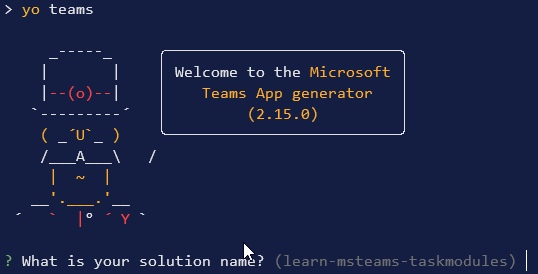
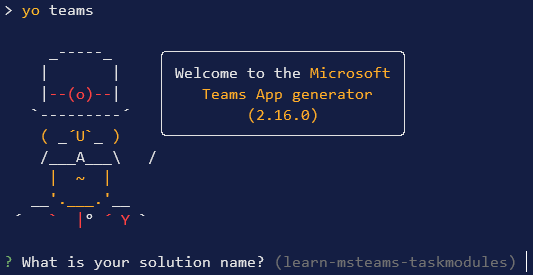
MSTeams - Webhooks Module - FY21Q2 refresh
- update lab steps to match current dependencies
- implement changes per Acrolinx feedback
- update image names per reviewer feedback

diff --git a/learn-m365-pr/m365-developer/msteams-webhooks-connectors/includes/7-exercise-o365-connectors.md b/learn-m365-pr/m365-developer/msteams-webhooks-connectors/includes/7-exercise-o365-connectors.md
@@ -20,7 +20,7 @@ On the **Register Connector** page, complete the required fields in the form wit
 
 Select the **I accept the terms and conditions...** checkbox and select **Save** to register the Connector.
 
-After successfully registering your Connector, the **Connectors Developer Dashboard** page will display some additional sections. While there is a button to **Download Manifest** for a custom Microsoft Teams app, we'll use the manifest created by the Yeoman Generator for Microsoft Teams.
+After successfully registering your Connector, the **Connectors Developer Dashboard** page will display some additional sections. While there's a button to **Download Manifest** for a custom Microsoft Teams app, we'll use the manifest created by the Yeoman Generator for Microsoft Teams.
 
 You'll need the ID of your new Connector later in the exercise. This ID, a GUID, can be found in the URL of the updated page. Copy this ID for later use.
 
@@ -42,11 +42,12 @@ Yeoman will launch and ask you a series of questions. Answer the questions with 
 - **Where do you want to place the files?**: Use the current folder
 - **Title of your Microsoft Teams App project?**: My First Teams Connector
 - **Your (company) name? (max 32 characters)**: Contoso
-- **Which manifest version would you like to use?**: v1.6
+- **Which manifest version would you like to use?**: v1.8
 - **Enter your Microsoft Partner Id, if you have one?**: (Leave blank to skip)
 - **What features do you want to add to your project?**: A Connector
 - **The URL where you will host this solution?**: (Accept the default option)
 - **Would you like show a loading indicator when your app/tab loads?**: No
+- **Would you like personal apps to be rendered without a tab header-bar?** No
 - **Would you like to include Test framework and initial tests?**: No
 - **Would you like to use Azure Applications Insights for telemetry?**: No
 - **What type of Connector would you like to include?**: A new Connector hosted in this solution
@@ -58,32 +59,9 @@ Yeoman will launch and ask you a series of questions. Answer the questions with 
 
 After answering the generator's questions, the generator will create the scaffolding for the project and then execute `npm install` that downloads all the dependencies required by the project.
 
-### Ensure the project is using the latest version of Teams manifest & SDK
-
-Run the npm command to install the latest version of the SDK
-
-```console
-npm i @microsoft/teams-js
-```
-
-Locate and open the `manifest.json` file in the `manifest`  folder of the project.
-
-- Change the `$schema` property to **https://developer.microsoft.com/en-us/json-schemas/teams/v1.7/MicrosoftTeams.schema.json**
-- Change the `manifestVersion` property to **1.7**.
-- Change the `version` property to **1.0.0**.
-
-Open the `gulp.config.js` file in the root folder of the project. Add the following to the **SCHEMAS** property.
-
-```json
-{
-  version: "1.7",
-  schema: "https://developer.microsoft.com/en-us/json-schemas/teams/v1.7/MicrosoftTeams.schema.json"
-}
-```
-
 ### Examine and update the app manifest file
 
-After creating the project you'll need to make a few edits to the default app manifest file. Locate and open the file **./src/manifest/manifest.json**.
+After creating the project, you'll need to make a few edits to the default app manifest file. Locate and open the file **./src/manifest/manifest.json**.
 
 Within this file, locate the `connectors` array. Notice a single connector is listed:
 
@@ -102,7 +80,7 @@ Within this file, locate the `connectors` array. Notice a single connector is li
 > [!IMPORTANT]
 > Notice the scope of the Connector ID will be replaced by the build process. This ID can be found in the `./.env` file that's used for development.
 
-A default manifest has a few empty array properties that must be removed in order to add the Connector to a team. Locate the following properties and delete them from the **manifest.json** file:
+A default manifest has a few empty array properties that must be removed to add the Connector to a team. Locate the following properties and delete them from the **manifest.json** file:
 
 ```json
 "configurableTabs": []
@@ -181,7 +159,7 @@ The web service exposes two endpoints, both represented by methods with the endp
     > [!NOTE]
     > The sample web service in the default project uses a JSON file to store the registration. It does not contain any logic to update an existing Connector when it's changed, or remove a Connector. In a real world Connector, you'll likely implement a system that saves this registration to a persistent data store that handles the scenarios of updating and removing a Connector from a team.
 
-- **/ping**: This endpoint can be called by anyone and is simply used to test the Connector. When called, it will create a card and send it to all the registered Connectors.
+- **/ping**: This endpoint can be called by anyone and is used to test the Connector. When called, it will create a card and send it to all the registered Connectors.
 
 ## Test the Office 365 Connector in Microsoft Teams
 
@@ -195,7 +173,7 @@ gulp ngrok-serve
 
 Now let's load the Connector in Microsoft Teams. In the browser, navigate to **https://teams.microsoft.com** and sign in with the credentials of a Work and School account.
 
-Once you are signed in, the first step is to install the Microsoft Teams app.
+Once you're signed in, the first step is to install the Microsoft Teams app.
 
 Select a team, select the action menu on the team and select **Manage team**:
 
@@ -219,7 +197,7 @@ Once installed, you can now add the Connector to a team. You can do this from th
 
 ![Screenshot of the Add to a team dialog](../media/07-test-setup-app-05.png)
 
-On the **Connectors for... channel in ... team** page, select the **Others** category and scroll to the bottom. You will see your connector under the **Sideloaded** section:
+On the **Connectors for... channel in ... team** page, select the **Others** category and scroll to the bottom. You'll see your connector under the **Sideloaded** section:
 
 ![Screenshot listing all Connectors available to a team](../media/07-test-setup-app-06.png)
 
@@ -351,7 +329,7 @@ Using the free tool [Postman](https://www.postman.com/), create a new request to
     > [!IMPORTANT]
     > Connectors, like incoming webhooks, only support Office 365 Connector Cards for messages sent to Microsoft Teams. Adaptive cards aren't supported when sending messages with cards when using Connectors or incoming webhooks.
 
-Select the **Send** button in Postman. When you go back to the channel, you will see the card displayed as a message in the team:
+Select the **Send** button in Postman. When you go back to the channel, you'll see the card displayed as a message in the team:
 
 ![Screenshot of the rendered card in the team](../media/07-test-setup-app-11.png)
 

diff --git a/learn-m365-pr/m365-developer/msteams-webhooks-connectors/includes/3-exercise-outgoing-webhooks.md b/learn-m365-pr/m365-developer/msteams-webhooks-connectors/includes/3-exercise-outgoing-webhooks.md
@@ -8,7 +8,7 @@ For the Office 365 tenant, follow the instructions on [Microsoft Teams: Prepare 
 
 Microsoft Teams must be configured to enable custom apps and allow custom apps to be uploaded to your tenant to build custom apps for Microsoft Teams. Follow the instructions on the same **Prepare your Office 365 tenant** page mentioned above.
 
-You'll use Node.js to create custom Microsoft Teams tabs in this module. The exercises in this module assume you have the following tools installed on your developer workstation.
+You'll use Node.js to create custom Microsoft Teams tabs in this module. The exercises in this module assume you've the following tools installed on your developer workstation.
 
 > [!IMPORTANT]
 > In most cases, installing the latest version of the following tools is the best option. The versions listed here were used when this module was published and last tested.
@@ -17,7 +17,7 @@ You'll use Node.js to create custom Microsoft Teams tabs in this module. The exe
 - NPM (installed with Node.js) - v6.\* (or higher)
 - [Gulp](https://gulpjs.com/) - v4.\* (or higher)
 - [Yeoman](https://yeoman.io/) - v3.\* (or higher)
-- [Yeoman Generator for Microsoft Teams](https://github.com/OfficeDev/generator-teams) - v2.15.0 (or higher)
+- [Yeoman Generator for Microsoft Teams](https://github.com/OfficeDev/generator-teams) - v2.16.0 (or higher)
 - [Visual Studio Code](https://code.visualstudio.com)
 - [ngrok](https://ngrok.io)
 
@@ -41,11 +41,12 @@ Yeoman will launch and ask you a series of questions. Answer the questions with 
 - **Where do you want to place the files?**: Use the current folder
 - **Title of your Microsoft Teams App project?**: Teams Webhooks
 - **Your (company) name? (max 32 characters)**: Contoso
-- **Which manifest version would you like to use?**: v1.6
+- **Which manifest version would you like to use?**: v1.8
 - **Enter your Microsoft Partner Id, if you have one?**: (Leave blank to skip)
 - **What features do you want to add to your project?**: An Outgoing Webhook
 - **The URL where you will host this solution?**: (Accept the default option)
 - **Would you like show a loading indicator when your app/tab loads?**: No
+- **Would you like personal apps to be rendered without a tab header-bar?** No
 - **Would you like to include Test framework and initial tests?**: No
 - **Would you like to use Azure Applications Insights for telemetry?**: No
 - **Name of your outgoing webhook?**: Teams Webhooks Outgoing Webhook
@@ -60,28 +61,6 @@ Our web service will need one more NPM package to simplify finding data in an ar
 ```console
 npm install lodash -S
 ```
-
-### Ensure the project is using the latest version of Teams manifest & SDK
-
-Run the npm command to install the latest version of the SDK
-
-```console
-npm i @microsoft/teams-js
-```
-
-Locate and open the `manifest.json` file in the `manifest`  folder of the project. 
-- Change the `$schema` property to **https://developer.microsoft.com/en-us/json-schemas/teams/v1.7/MicrosoftTeams.schema.json**
-- Change the `manifestVersion` property to **1.7**.
-
-Open the `gulp.config.js` file in the root folder of the project. Add the following to the **SCHEMAS** property.
-
-```json
-{
-  version: "1.7",
-  schema: "https://developer.microsoft.com/en-us/json-schemas/teams/v1.7/MicrosoftTeams.schema.json"
-}
-```
-
 
 ## Code the outgoing webhook
 
@@ -346,7 +325,7 @@ private static processAuthenticatedRequest(incomingText: string): Partial<builde
 }
 ```
 
-Add the following `scrubMessage()` method to the `TeamsWebhooksOutgoingWebhook` class. A user must @mention an outgoing webhook in order to send a message to it. This method will remove the `<at></at>` text and any spaces to extract the planet name:
+Add the following `scrubMessage()` method to the `TeamsWebhooksOutgoingWebhook` class. A user must @mention an outgoing webhook to send a message to it. This method will remove the `<at></at>` text and any spaces to extract the planet name:
 
 ```typescript
 private static scrubMessage(incomingText: string): string {
@@ -359,7 +338,7 @@ private static scrubMessage(incomingText: string): string {
 
 Finally, update the `requestHandler()` method:
 
-- Locate the following code and change the `message` declaration from a `const` to `let` as you will change this value.
+- Locate the following code and change the `message` declaration from a `const` to `let` as you'll change this value.
 
     ```typescript
     const message: Partial<builder.Activity> = {

diff --git a/learn-m365-pr/m365-developer/msteams-webhooks-connectors/includes/5-exercise-incoming-webhooks.md b/learn-m365-pr/m365-developer/msteams-webhooks-connectors/includes/5-exercise-incoming-webhooks.md
@@ -4,7 +4,7 @@ In this exercise, you’ll learn how to register an incoming webhook in a Micros
 
 Now let's add the outgoing webhook to a team in Microsoft Teams. In the browser, navigate to **https://teams.microsoft.com** and sign in with the credentials of a Work and School account.
 
-Once you are signed in, select a channel in a team you want to add the webhook to. From the channel's page, select the **+** in the top navigation:
+Once you're signed in, select a channel in a team you want to add the webhook to. From the channel's page, select the **+** in the top navigation:
 
 ![Screencast of the channel home page](../media/05-test-01.png)
 

diff --git a/learn-m365-pr/m365-developer/msteams-webhooks-connectors/includes/6-o365-connectors.md b/learn-m365-pr/m365-developer/msteams-webhooks-connectors/includes/6-o365-connectors.md
@@ -47,7 +47,7 @@ Developers implementing the configuration experience should do the following:
 
 Your code should handle users returning to edit an existing connector configuration. To do this, call `microsoftTeams.settings.setSettings()` during the initial configuration.
 
-The call to `setSettings()` is usually made as part of your `registerOnSaveHandler()` implementation.
+The call to `setSettings()` is made as part of your `registerOnSaveHandler()` implementation.
 
 ### Removing configured Connectors
 
